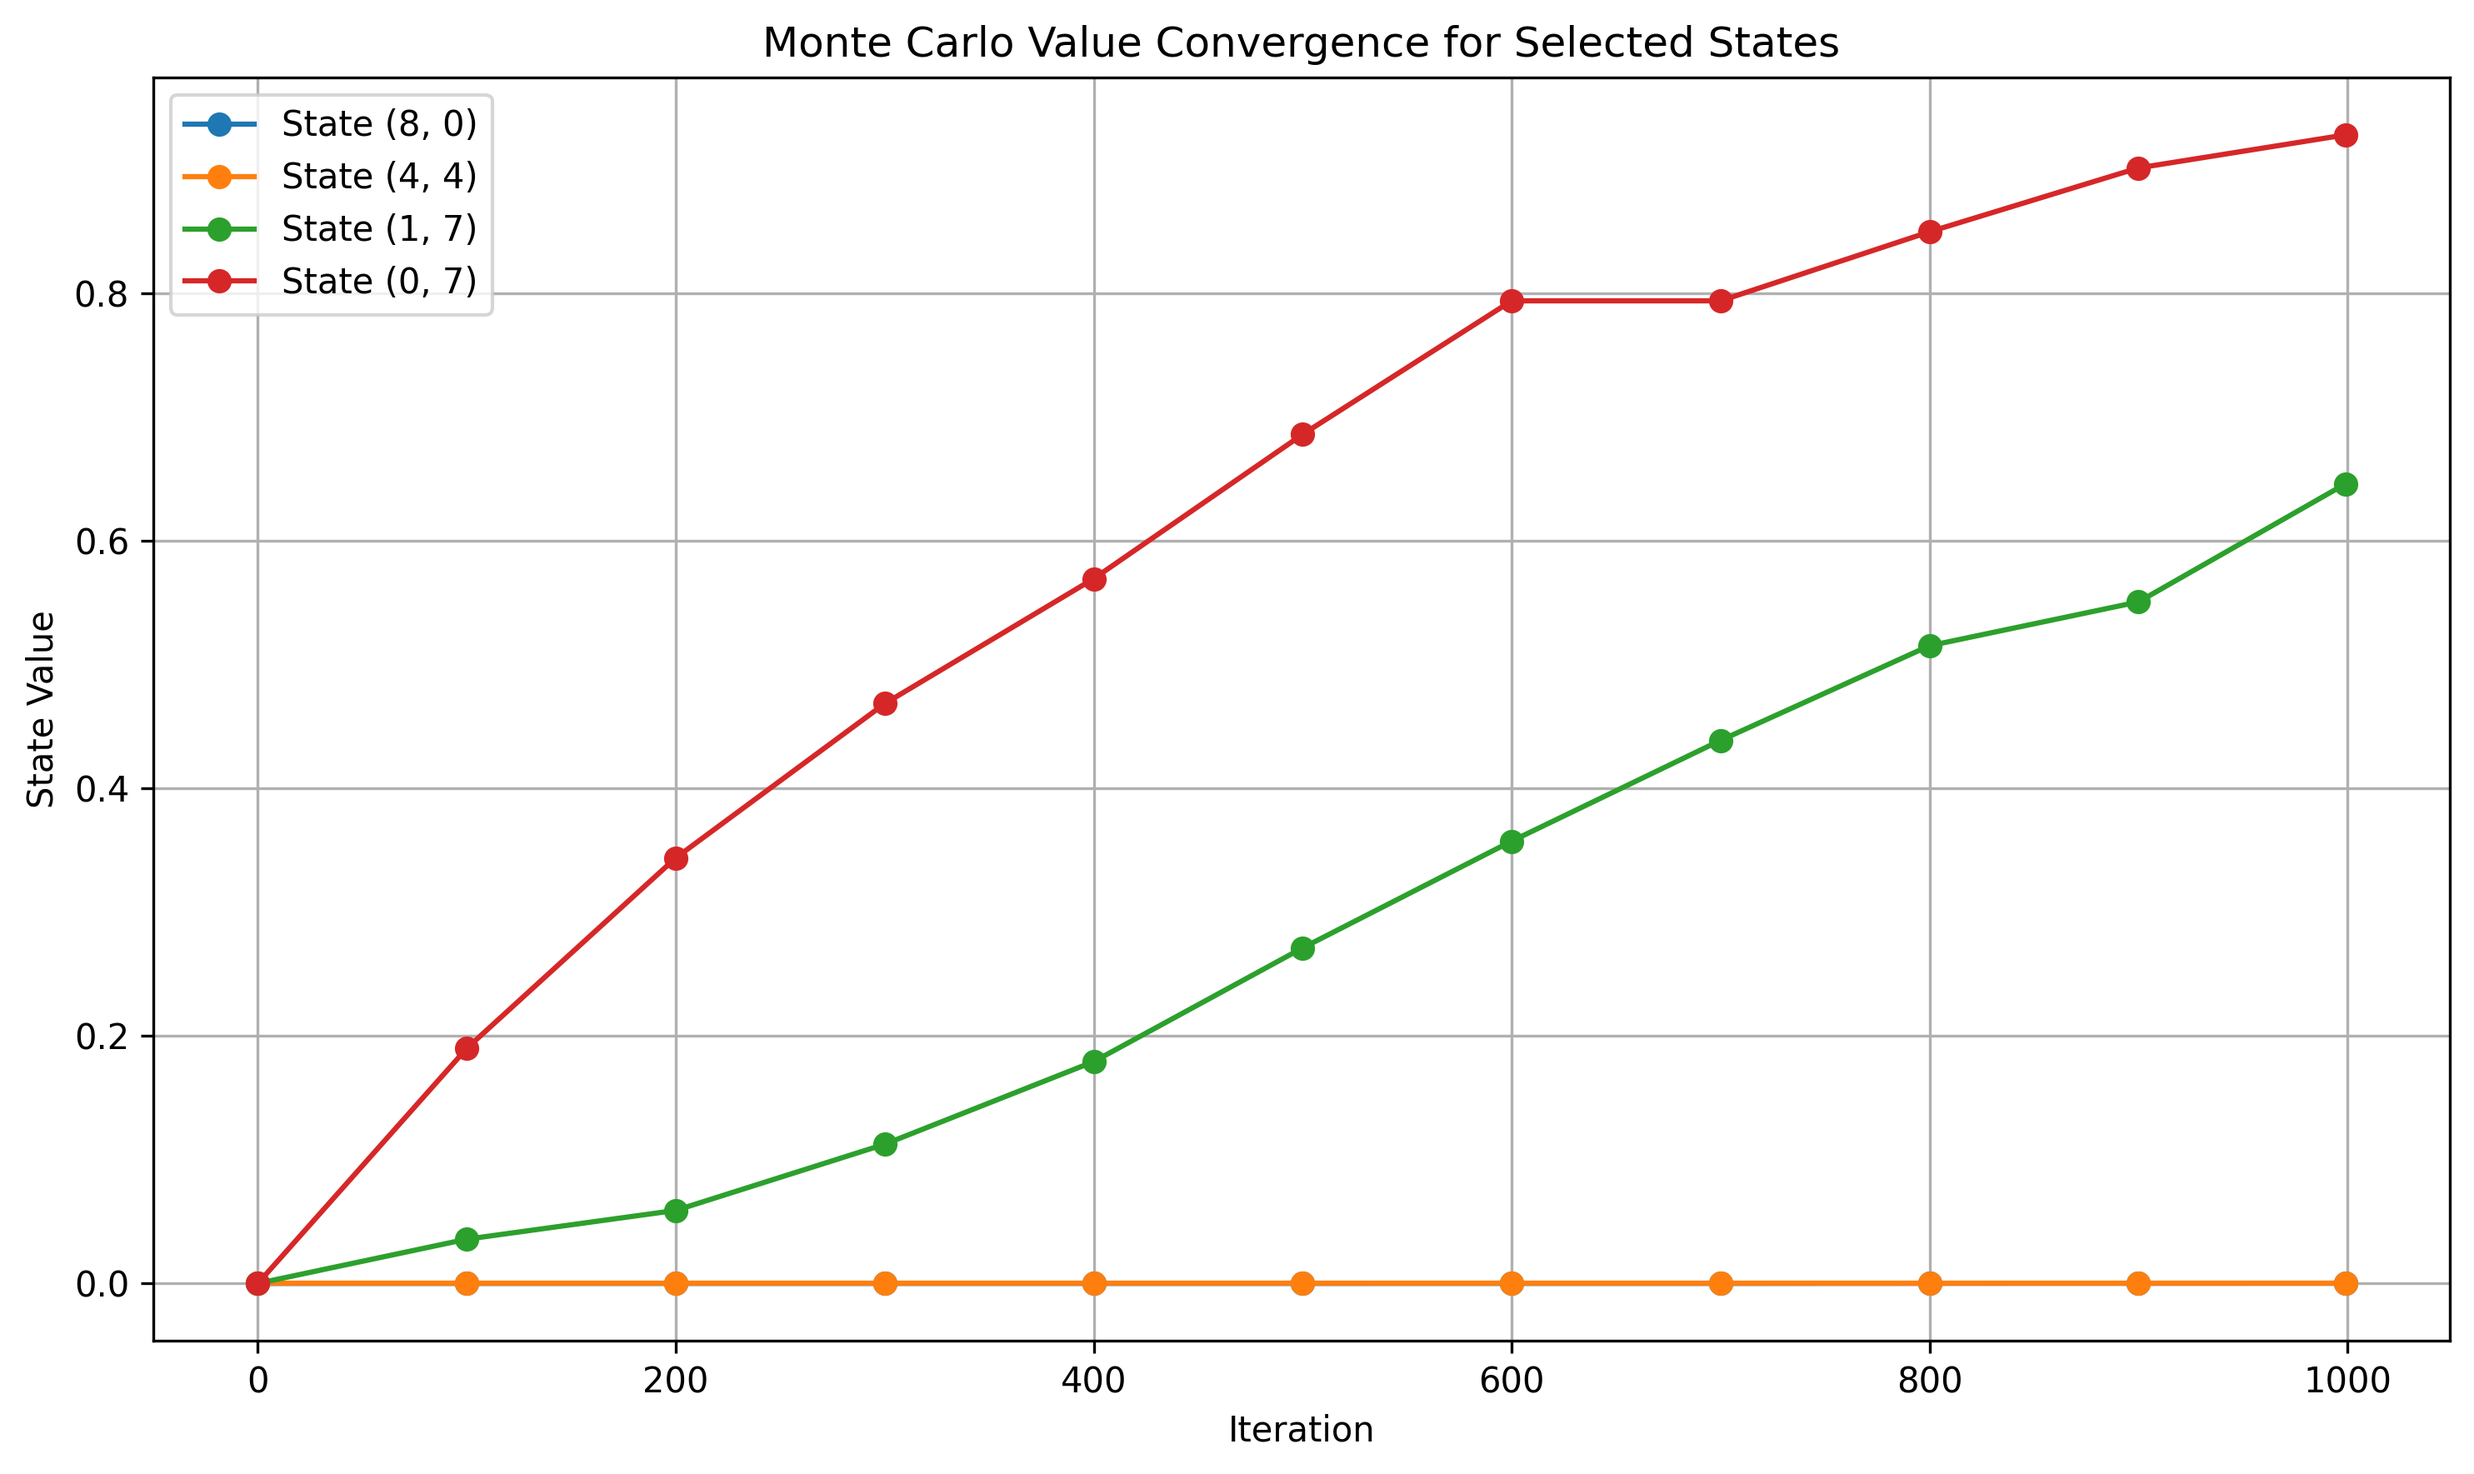
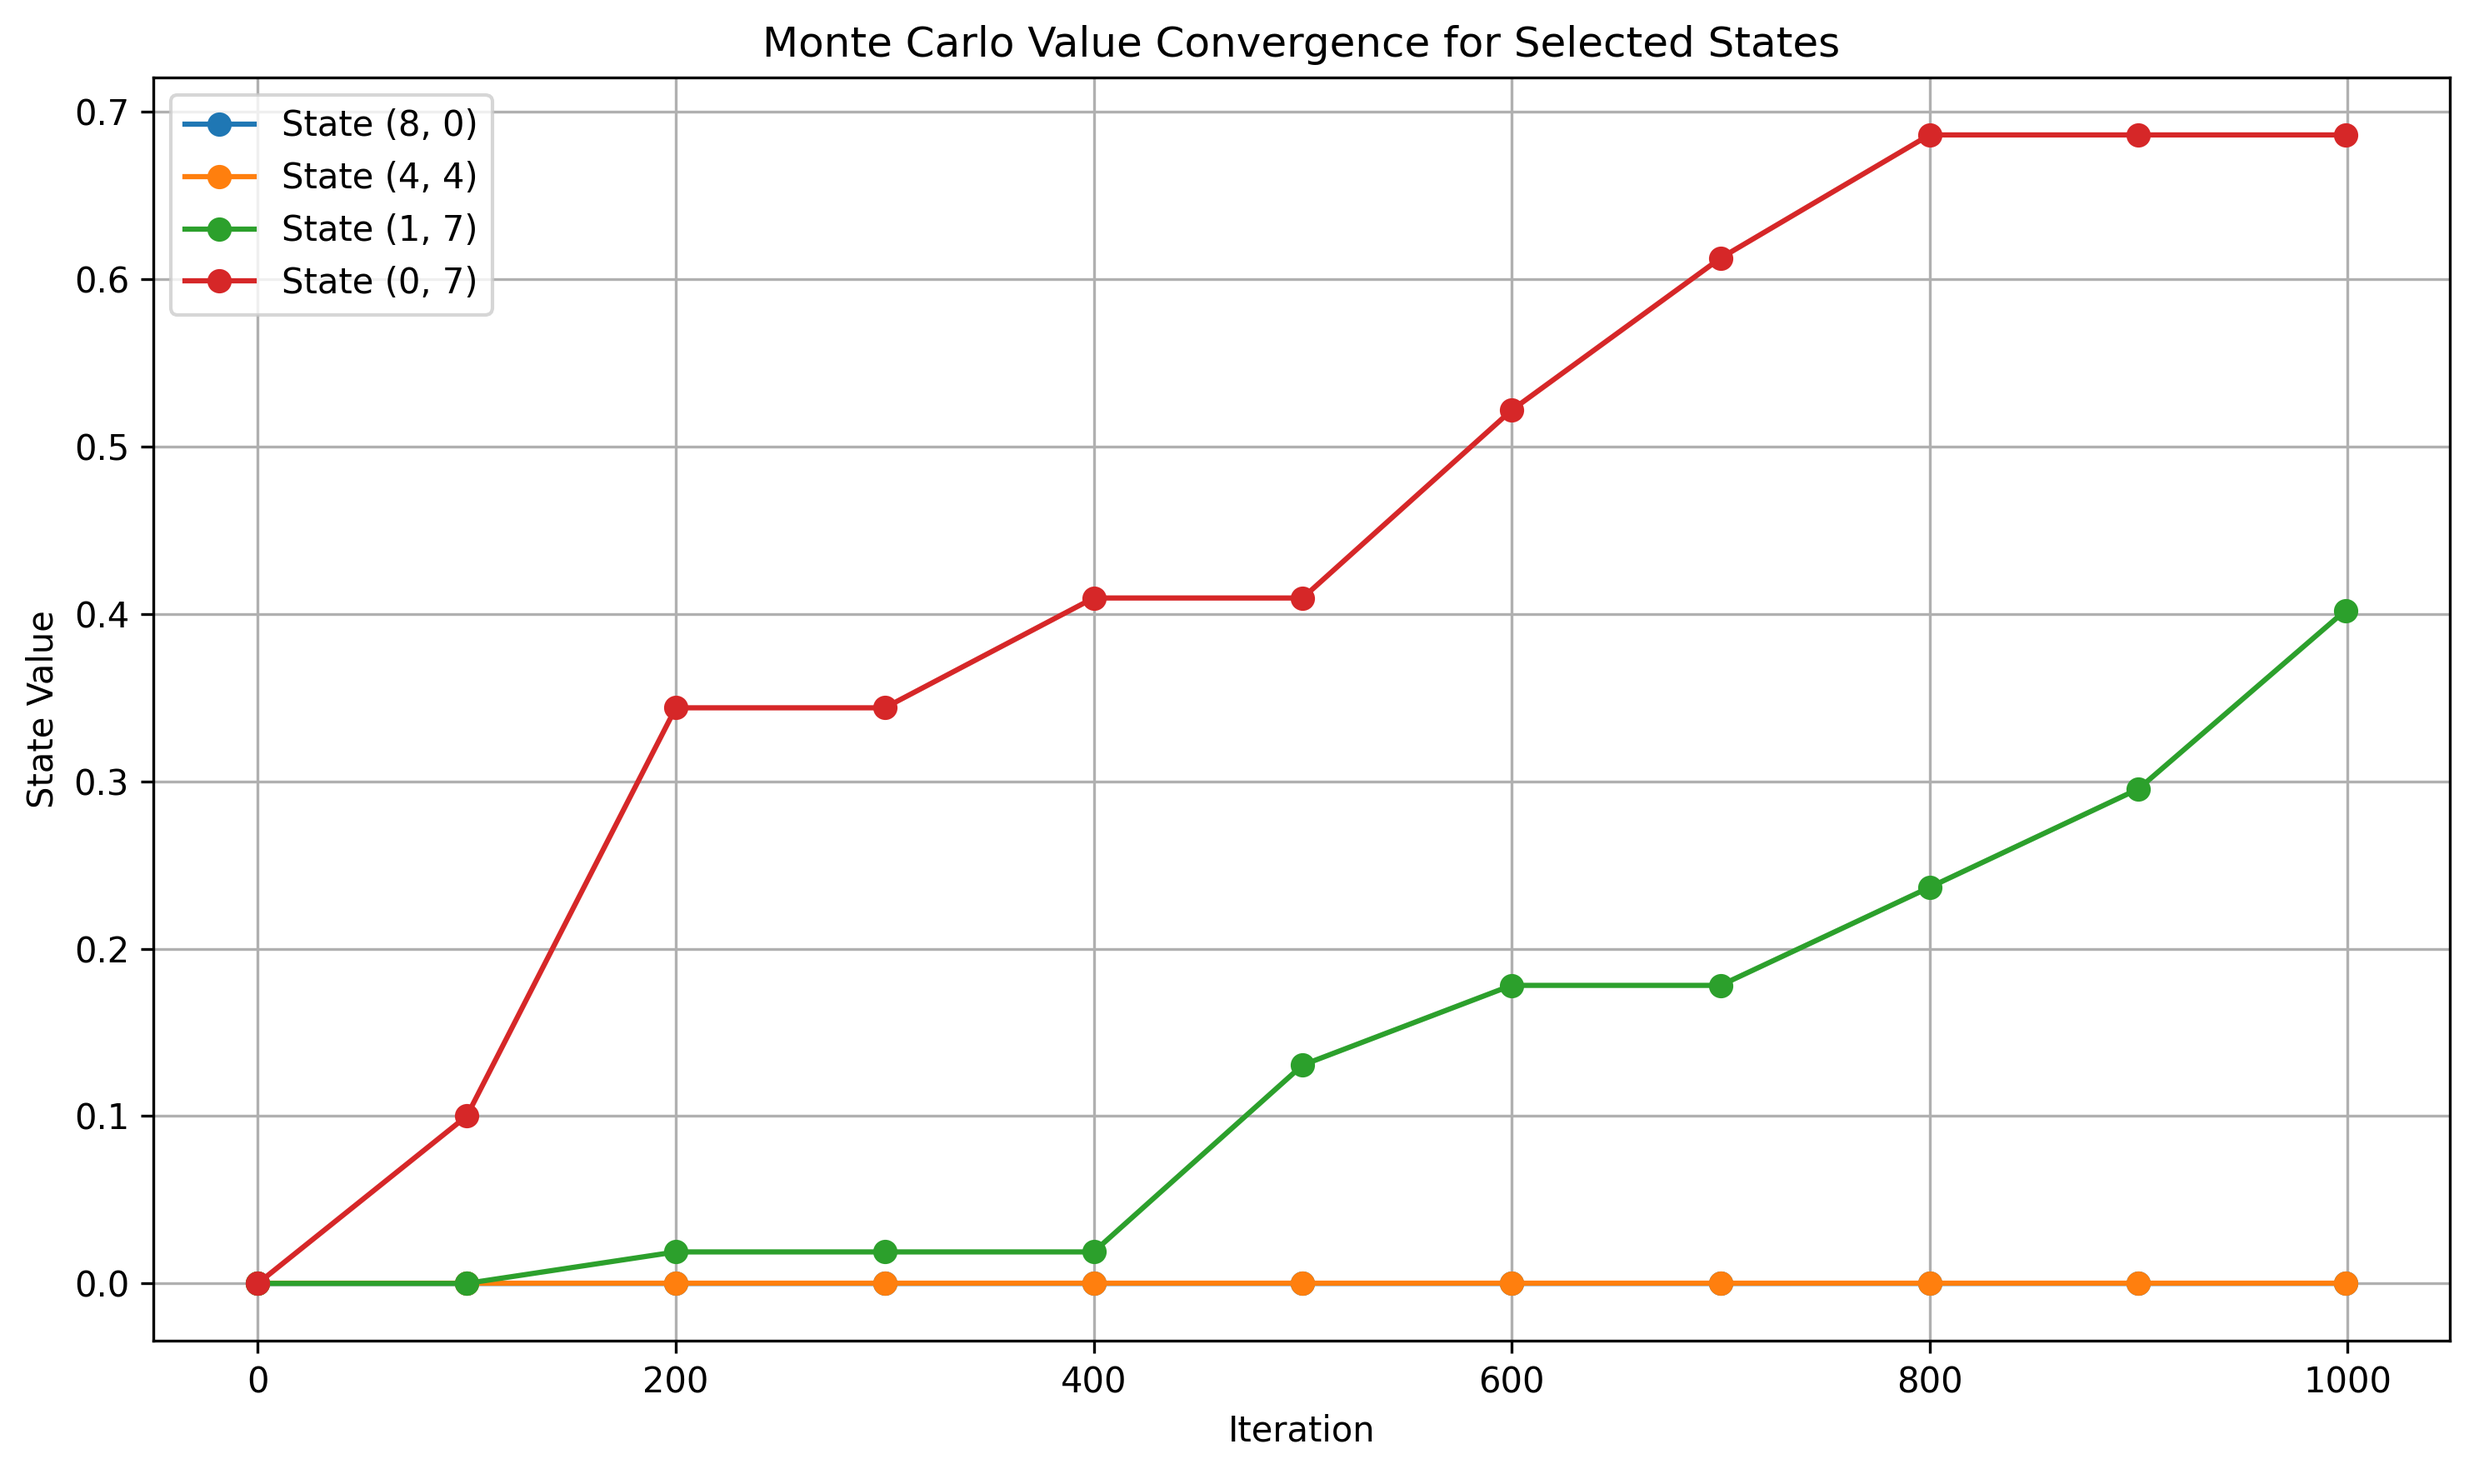
fixed mc grid

diff --git a/assignment 2/a2_q2.py b/assignment 2/a2_q2.py
@@ -20,15 +20,15 @@ class GridWorld:
         self.walls = [
             # Vertical walls
             (0, 5), (1, 5), (2, 5), (3, 5),  # Vertical wall at column 5
-            (6, 3), (7, 3), (8, 3),  # Vertical wall at column 3
+            (5, 3), (6, 3), (7, 3),  # Vertical wall at column 3
             
             # Horizontal walls
             (3, 5), (3, 6), (3, 7), (3, 8),  # Horizontal wall at row 3
-            (6, 1), (6, 2), (6, 3)   # Horizontal wall at row 6
+            (5, 1), (5, 2), (5, 3)   # Horizontal wall at row 6
         ]
         
         # Define portals
-        self.portal_in = (7, 2)    # IN portal
+        self.portal_in = (6, 2)    # IN portal
         self.portal_out = (2, 6)   # OUT portal
         
         # Define start and goal
@@ -501,6 +501,161 @@ def visualize_state_values(env, vi_values, pi_values, mc_values, title="State Va
     return fig
 
 
+def visualize_all_convergence(env, vi_history, pi_history, mc_iterations, mc_values_history):
+    """
+    Create comprehensive convergence visualizations for all three methods
+    
+    Args:
+        env: The GridWorld environment
+        vi_history: List of value function dictionaries for each VI iteration
+        pi_history: List of policy dictionaries for each PI iteration
+        mc_iterations: List of iteration numbers when MC values were recorded
+        mc_values_history: List of value function dictionaries at MC checkpoints
+    """
+    # Create figure with 2x2 subplots
+    fig, axs = plt.subplots(2, 2, figsize=(15, 12))
+    
+    # 1. Value Function Error/Change Plot (all methods)
+    # Calculate maximum value change per iteration for each method
+    
+    # Value Iteration
+    vi_diffs = []
+    for i in range(1, len(vi_history)):
+        max_diff = 0
+        for state in vi_history[i]:
+            diff = abs(vi_history[i][state] - vi_history[i-1][state])
+            max_diff = max(max_diff, diff)
+        vi_diffs.append(max_diff)
+    
+    # Policy Iteration - need to reconstruct value function history
+    pi_values_history = []
+    pi_diffs = []
+    
+    # Monte Carlo - calculate average change in values at checkpoints
+    mc_diffs = []
+    for i in range(1, len(mc_values_history)):
+        avg_diff = 0
+        count = 0
+        for state in mc_values_history[i]:
+            if state in mc_values_history[i-1]:
+                diff = abs(mc_values_history[i][state] - mc_values_history[i-1][state])
+                avg_diff += diff
+                count += 1
+        if count > 0:
+            mc_diffs.append(avg_diff / count)
+        else:
+            mc_diffs.append(0)
+    
+    # Plot convergence of value functions (max delta)
+    axs[0, 0].plot(range(1, len(vi_history)), vi_diffs, marker='.', label='Value Iteration')
+    if len(mc_diffs) > 0:
+        # Plot MC at the correct iteration numbers (not all iterations were saved)
+        axs[0, 0].plot(mc_iterations[1:], mc_diffs, marker='o', label='Monte Carlo')
+    axs[0, 0].set_xlabel('Iteration')
+    axs[0, 0].set_ylabel('Value Function Change')
+    axs[0, 0].set_title('Value Function Convergence')
+    axs[0, 0].set_yscale('log')
+    axs[0, 0].grid(True)
+    axs[0, 0].legend()
+    
+    # 2. Policy Changes Plot
+    pi_changes = []
+    for i in range(1, len(pi_history)):
+        changes = 0
+        total = 0
+        for state in pi_history[i]:
+            if state not in env.walls and state not in env.terminal_states:
+                total += 1
+                if pi_history[i][state] != pi_history[i-1][state]:
+                    changes += 1
+        pi_changes.append(changes / max(1, total))  # As percentage of non-wall states
+    
+    axs[0, 1].plot(range(1, len(pi_history)), pi_changes, marker='.')
+    axs[0, 1].set_xlabel('Iteration')
+    axs[0, 1].set_ylabel('Policy Change Ratio')
+    axs[0, 1].set_title('Policy Changes During Policy Iteration')
+    axs[0, 1].grid(True)
+    
+    # 3. State Value Convergence for Key States (all methods)
+    # Choose key states to track
+    key_states = [
+        env.start,       # Starting state
+        (4, 4),          # Middle of grid
+        (1, 7),          # Near goal
+        (0, 7)           # One step from goal
+    ]
+    
+    # Filter out any walls in key states
+    key_states = [s for s in key_states if s not in env.walls]
+    
+    # For each key state, plot value over iterations for all methods
+    for state in key_states:
+        # Get value history for this state
+        vi_values = [history.get(state, 0) for history in vi_history]
+        
+        # For Monte Carlo, we need to extract from the checkpoints
+        mc_values = [history.get(state, 0) for history in mc_values_history]
+        
+        # Plot for this state
+        axs[1, 0].plot(range(len(vi_history)), vi_values, 
+                     label=f"VI State {state}")
+        
+        # Only plot MC if we have values
+        if len(mc_values) > 0:
+            axs[1, 0].plot(mc_iterations, mc_values, 
+                         linestyle='--', marker='o',
+                         label=f"MC State {state}")
+    
+    axs[1, 0].set_xlabel('Iteration')
+    axs[1, 0].set_ylabel('State Value')
+    axs[1, 0].set_title('Value Convergence for Key States')
+    axs[1, 0].grid(True)
+    axs[1, 0].legend()
+    
+    # 4. Bellman Error Plot (Value Iteration)
+    vi_bellman_errors = []
+    for i in range(len(vi_history)):
+        values = vi_history[i]
+        total_error = 0
+        count = 0
+        
+        for state in values:
+            if state in env.terminal_states or state in env.walls:
+                continue
+                
+            # Calculate Bellman error
+            max_action_value = float('-inf')
+            for action in env.actions:
+                action_value = 0
+                for next_state, prob in env.get_possible_next_states(state, action):
+                    reward = env.get_reward(state, action, next_state)
+                    action_value += prob * (reward + env.gamma * values.get(next_state, 0))
+                max_action_value = max(max_action_value, action_value)
+            
+            # Bellman error is the difference between value and the max action value
+            error = abs(values[state] - max_action_value)
+            total_error += error
+            count += 1
+        
+        # Average error across all states
+        if count > 0:
+            vi_bellman_errors.append(total_error / count)
+        else:
+            vi_bellman_errors.append(0)
+    
+    axs[1, 1].plot(range(len(vi_history)), vi_bellman_errors, marker='.')
+    axs[1, 1].set_xlabel('Iteration')
+    axs[1, 1].set_ylabel('Average Bellman Error')
+    axs[1, 1].set_title('Bellman Error During Value Iteration')
+    axs[1, 1].set_yscale('log')
+    axs[1, 1].grid(True)
+    
+    plt.tight_layout()
+    plt.savefig("all_convergence_analysis.png", dpi=300, bbox_inches='tight')
+    
+    return fig
+
+
 def visualize_convergence(vi_history, pi_history, title="Algorithm Convergence"):
     """Visualize the convergence of Value Iteration and Policy Iteration algorithms"""
     fig, axs = plt.subplots(2, 1, figsize=(12, 10))
@@ -633,6 +788,10 @@ def main():
     # Visualize state values for all algorithms
     print("Visualizing state values for all algorithms...")
     values_fig = visualize_state_values(env, vi_values, pi_values, mc_values)
+    
+    # Create comprehensive convergence visualization for all methods
+    print("Creating comprehensive convergence analysis...")
+    all_convergence_fig = visualize_all_convergence(env, vi_history, pi_history, mc_iterations, mc_values_checkpoints)
     
     plt.show()
 
